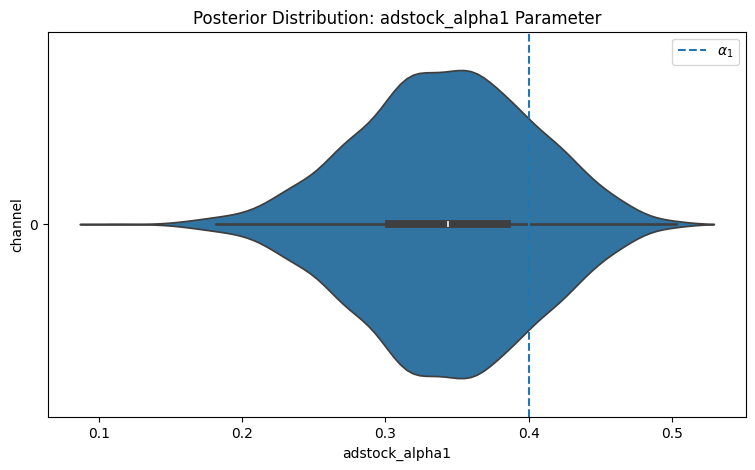
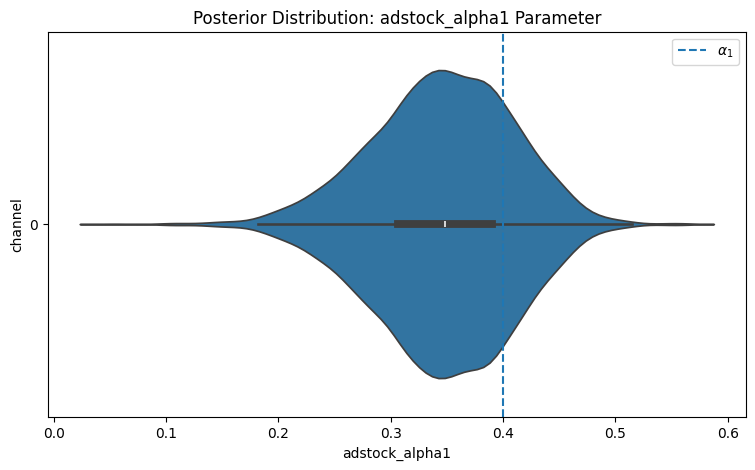
finalized the paper

diff --git a/final_paper.md b/final_paper.md
@@ -228,17 +228,21 @@ Here's the contribution parameters we want to recover:
 
 ![alt text](assets/img/contribution.png)
 
-TODO: add the contribution parameter for just search and display as well. 
+Here's the contribution, rolling up to just paid search and display ads:
+
+![alt text](assets/img/contribution_combined.png)
 
 Here's the ROAS we want to recover:
 
 ![alt text](/assets/img/roas.png)
 
-TODO: add the ROAS we want to recover for just search and display as well.
+Here's the ROAS, rolling up to just paid search and display ads:
+
+![alt text](/assets/img/roas_combined.png)
 
 ## Naive Model 
 
-First, we will build a naive MMM (replicating base model frameworks that we see in [PyMC Marketing](https://www.pymc-marketing.io/en/latest/)) and see how close it can get to the true parameters.
+First, we build a naive MMM (replicating base model frameworks that we see in [PyMC Marketing](https://www.pymc-marketing.io/en/latest/)) and see how close it can get to the true parameters.
 
 Here's an example of PyMC's base model framework:
 
@@ -269,7 +273,7 @@ $$
 
 ## Naive Model with Informed Priors
 
-Next, we will examine if adding an incrementality estimate as a prior into the naive model can help improve parameter recovery.
+Next, we add an incrementality estimate as a prior into the naive model to help improve parameter recovery.
 
 Let's assume we had our display ads vendor run an A/B test in their platform using ghost bids to make a clean test vs. control comparison. The results are encoded as this prior (adjusted for scaling of y):
 
@@ -279,7 +283,7 @@ $$
 
 ## Causal Model
 
-Lastly, we will build a more causally accurate MMM and see how close it can get to the true parameters. 
+Lastly, we build a more causally accurate MMM. 
 
 $$
 Sales_t \sim \mathcal{N}(\mu_t, \sigma)
@@ -302,11 +306,11 @@ $$
 $$
 
 $$
-\text{DisplayDirect}_t = (1 - \pi) \cdot \text{TotalDisplayAds}_t
+\text{DisplayDirect}_t = (1 - \pi) \cdot \text{DisplayAds}_t
 $$
 
 $$
-\text{SearchDirect}_t = \text{TotalPaidSearch}_t - \text{DisplayAndSearch}_t
+\text{SearchDirect}_t = \text{PaidSearch}_t
 $$
 
 
@@ -349,11 +353,14 @@ with pm.Model() as model:
     event_1 = pm.Data('event1', scaled_data["event_1"].values)
     event_2 = pm.Data('event2', scaled_data["event_2"].values)
     y = pm.Data('y', scaled_data['y'].values)
+    spend_display_direct = pm.Data("spend_display_direct", scaled_data['display_ads'].sum() * (1 - proportion_display_to_search))
+    spend_display_search = pm.Data("spend_display_search", scaled_data['display_ads'].sum() * proportion_display_to_search)
+    spend_search_direct = pm.Data("spend_search_direct", scaled_data['paid_search'].sum())
     # ----------------------
     # Priors
     # ----------------------
-    alpha = pm.Normal("alpha", 0.5, sigma=0.2)          # intercept
-    beta_t = pm.HalfNormal("beta_t", sigma=0.1)        # trend slope
+    alpha = pm.Normal("alpha", 0.4, sigma=2)          # intercept
+    beta_t = pm.Normal("beta_t", sigma=2)        # trend slope
     # Fourier terms
     beta_fourier = pm.Laplace("beta_fourier", mu=0.0, b=0.2, shape=fourier_terms.shape[1])
     # Control events
@@ -378,7 +385,7 @@ with pm.Model() as model:
     sigma_ds = pm.HalfNormal("sigma_ds", sigma=0.2)
     display_and_search = pm.Normal("display_and_search", mu=mu_ds, sigma=sigma_ds, shape=scaled_data['display_ads'].shape) # display and search is normally distributed with some random noise
     display_direct = display_transformed - display_and_search
-    search_direct = search_transformed - display_and_search
+    search_direct = search_transformed
 
     beta_display_direct = pm.HalfNormal("beta_display_direct", sigma=0.5)
     beta_display_and_search = pm.HalfNormal("beta_display_and_search", sigma=0.5)
@@ -388,20 +395,32 @@ with pm.Model() as model:
     sigma = pm.HalfNormal("sigma", sigma=2)
 
     # combine everything to make mu of y
-    display_direct_contribution = pm.Deterministic("display_direct_contribution", beta_display_direct * display_direct)
+    beta_display_direct_unscaled = pm.Deterministic(
+    "beta_display_direct_unscaled",
+    beta_display_direct * y_max
+    )
+    beta_display_and_search_unscaled = pm.Deterministic(
+    "beta_display_and_search_unscaled",
+    beta_display_and_search * y_max
+    )
+    beta_search_direct_unscaled = pm.Deterministic(
+    "beta_search_direct_unscaled",
+    beta_search_direct * y_max
+    )
+    display_direct_contribution_unscaled = pm.Deterministic("display_direct_contribution_unscaled",beta_display_direct_unscaled * display_direct)
+    display_and_search_contribution_unscaled = pm.Deterministic("display_and_search_contribution_unscaled", beta_display_and_search_unscaled * display_and_search)
+    search_direct_contribution_unscaled = pm.Deterministic("search_direct_contribution_unscaled", beta_search_direct_unscaled * search_direct)
+    display_direct_contribution = pm.Deterministic("display_direct_contribution",beta_display_direct * display_direct)
     display_and_search_contribution = pm.Deterministic("display_and_search_contribution", beta_display_and_search * display_and_search)
     search_direct_contribution = pm.Deterministic("search_direct_contribution", beta_search_direct * search_direct)
     fourier_contribution = pm.Deterministic("fourier_contribution", pm.math.dot(fourier_terms, beta_fourier))
     trend_contribution = pm.Deterministic("trend_contribution", beta_t * t)
     control1_contribution = pm.Deterministic("control1_contribution", gamma_control1 * event_1)
     control2_contribution = pm.Deterministic("control2_contribution", gamma_control2 * event_2)
-    spend_display_direct = pm.Data("spend_display_direct", df["display_ads"].sum() * (1 - proportion_display_to_search))
-    spend_display_search = pm.Data("spend_display_search", df["display_ads"].sum() * proportion_display_to_search)
-    spend_search_direct = pm.Data("spend_search_direct", df["paid_search"].sum())
 
-    contrib_display_direct = pm.Deterministic("contrib_display_direct", beta_display_direct * display_direct.sum())
-    contrib_display_search = pm.Deterministic("contrib_display_search", beta_display_and_search * display_and_search.sum())
-    contrib_search_direct = pm.Deterministic("contrib_search_direct", beta_search_direct * search_direct.sum())
+    contrib_display_direct = pm.Deterministic("contrib_display_direct", beta_display_direct_unscaled * display_direct.sum())
+    contrib_display_search = pm.Deterministic("contrib_display_search", beta_display_and_search_unscaled * display_and_search.sum())
+    contrib_search_direct = pm.Deterministic("contrib_search_direct", beta_search_direct_unscaled * search_direct.sum())
 
     roas_1 = pm.Deterministic("roas_display_direct", contrib_display_direct / spend_display_direct)
     roas_2 = pm.Deterministic("roas_display_search", contrib_display_search / spend_display_search)
@@ -426,9 +445,13 @@ with pm.Model() as model:
 
 # Results - Uninformed vs. Informed Priors in Naive Model
 
+Using informed priors helped the naive model to recover the parameters better. 
+
 ## Model Fit
 
-The informed prior didn't really affect the model fit. 
+The informed prior did not improve model fit.
+
+The black line is the actuals, and the dark blue area is the 50% HDI (credible interval), while the light blue is the 94% HDI. The $R^2$, or explained variance, of each model was the same. An $R^2$ of 86% means that the model accounted for 86% of the variance -  a decent result. 
 
 | Uninformed | Informed |
 |:--------:|:--------:|
@@ -436,7 +459,9 @@ The informed prior didn't really affect the model fit.
 
 ## Parameter Recovery
 
-The informed prior model recovered the adstock parameter better. 
+The informed prior model recovered the adstock and saturation parameters better. 
+
+The below charts show the posterior distribution of the parameters, with the dotted vertical lines displaying the actual true value. The black boxplot inside the area chart represents the credible intervals. The uninformed model's posteriors were both a bit too low, while the informed model was just right.
 
 | Uninformed - Display | Informed - Display |
 |:--------:|:--------:|
@@ -448,21 +473,35 @@ The informed prior model recovered the adstock parameter better.
 
 ## Contribution Recovery
 
-The informed prior model recovered the contributions better. 
+The naive model gave search too much contribution. Some of that contribution should have gone to display. The informed model lowered the contribution given to search, and its 94% HDIs capture the true contribution values.
 
 | Uninformed | Informed |
 |:--------:|:--------:|
 | ![Alt text 1](/assets/img/naive_contribution.png) | ![Alt text 2](assets/img/informed_contribution.png) |
 
+## ROAS Recovery
+
+Similar to contributions, the naive model gave too much credit to search. 
+
+The blue hill is the posterior distribution, with the black rectangle representing the 94% HDI, and the orange line representing the true value. The uninformed model gave search a mean of 2.8. The true ROAS is actually 1.54865, which falls in the bottom 0.3% of this posterior distribution; thus, the uninformed model greatly overestimated search. Likewise, although the informed model was closer to the real display ROAS, it also overestimated search. 
+
+| Uninformed | Informed |
+|:--------:|:--------:|
+| ![Alt text 1](/assets/img/naive_roas.png) | ![Alt text 2](assets/img/informed_roas.png) |
+
 ## Summary - Uninformed vs. Informed Priors
 
-Adding an informed prior can help mitigate these funnel effect issues!
+In the informed model, achieving the desired final ROAS for display was challenging because the $\beta$, adstock, and saturation parameters all interact to determine a channel's contribution. To steer the model toward a higher display ROAS, we found that simply increasing the $\beta$ prior was insufficient; we had to increase the $\beta$ prior while simultaneously adjusting the saturation prior to ensure the curve remained steep and efficient across the observed spend levels. This initial prior adjustment only significantly impacted the display ROAS, adstock, and saturation parameters. 
+
+Addressing potential funnel bias—where lower-funnel channels like search are often over-credited—would require more nuanced and potentially joint priors that take some contribution from lower funnel and credit it to upper funnel. This could be an avenue for future research. 
 
 # Results - Naive vs. Causal
 
+Next, we compare our naive model vs. our causally accurate model.
+
 ## Model Fit
 
-Both models fit the data rather well.
+Both models fit the data rather well, with $R^2$ of 86% and 89% respectively.
 
 | Naive MMM | Causal MMM |
 |:--------:|:--------:|
@@ -482,29 +521,37 @@ Both models struggled to recover adstock and saturation parameters. They had sim
 
 ## Contribution Recovery
 
-The naive model gave search too much credit. Some of that credit should have gone to display. Meanwhile, the causal MMM recovered the right direct search and display+search contributions albeit with very wide contribution intervals. 
+The naive model recovered the contribution better than the causal model, which has very wide intervals and incorrect display direct and search direct parameters.
 
 | Naive MMM | Causal MMM |
 |:--------:|:--------:|
 | ![Alt text 1](/assets/img/naive_contribution.png) | ![Alt text 2](assets/img/causal_contribution.png) |
 
+## ROAS Recovery
+
+The uncertainty in the causal model contribution intervals are reflected in the ROAS as well, especially for display+search posterior ranging from 0 to 10 ROAS. 
+
+| Uninformed | Informed |
+|:--------:|:--------:|
+| ![Alt text 1](/assets/img/naive_roas.png) | ![Alt text 2](assets/img/causal_roas.png) |
+
 ## Summary - Naive vs. Causal
 
-The Causal MMM framework was too complex, leading to very wide parameter uncertainty. Maybe there's a smarter way to set up the model. This could be an avenue for future research.
-
-The Naive MMM framework was too simple, giving too much credit to paid search. 
-
-Let's now examine the results from using better priors for our Naive model.
+The Naive MMM framework was too simple, assigning too much credit to paid search, while the Causal MMM framework was too complex, leading to very wide parameter uncertainty. There must be a smarter, yet simpler way to set up the model. This could also be an avenue for future research.
 
 # Conclusion
 
-From our analysis, we learned that naive MMMs will overcredit lower funnel channels, and informed priors can help mitigate funnel effect issues. 
+This study set out to demonstrate that while open-source MMMs democratize analysis, their inherent simplicity and abstraction risk encouraging a "plug-and-play" mentality that ignores causal dependencies between marketing channels, such as the downstream effect of display on search.
 
-Our causal MMM did not perform well. Future research could work on improving this model; however, solutions for these causal issues are already being implemented in industry and academia. In industry, Sellforte and Recast sell a causal MMM solution. For example, Recast's model has been developed based on this causal dag:
+Our findings confirmed this risk for our particular data generation framework: we demonstrated that naive MMMs overcredited lower-funnel channels, leading to biased parameter estimates. Critically, we showed that carefully constructed, informed priors can help mitigate these biases (future research will need to be conducted on much more complex data generation frameworks that better represent real world marketing environments).
+
+Conversely, our exploration into causally accurate, yet complex models confirmed the second part of our thesis: simply integrating the full causal structure does not guarantee superior performance and can, in fact, introduce new sources of bias or estimation instability.
+
+The road to a truly accurate MMM lies in balancing causal fidelity with model tractability. Solutions for these causal issues are already being implemented in industry and academia. In industry, Sellforte and Recast sell a causal MMM solution. For example, Recast's model has been developed based on this causal dag:
 
 ![recast](/assets/img/recast_causal_dag.png)
 
-In academia, Chen, Chan, Koehler, Perry, Wang, Sun, and Jin (2018) correct for paid search bias in media mix modeling by adding a demand proxy control variable. Gong, Yao, Zhang, Chen, Li, Su, and Bi (2024) propose a novel MMM that estimates the causal structure automatically. Additionally, there are existing modeling frameworks such as Structural Equation Modeling, multi-stage approaches, and more advanced Bayesian models that express the causal model as a joint probability distribution. The future is bright for causally accurate MMMs. 
+In academia, Chen, Chan, Koehler, Perry, Wang, Sun, and Jin (2018) correct for paid search bias in media mix modeling by adding a demand proxy control variable. Gong, Yao, Zhang, Chen, Li, Su, and Bi (2024) propose a novel MMM that estimates the causal structure automatically. Additionally, there are existing modeling frameworks such as Structural Equation Modeling, multi-stage approaches, and more advanced Bayesian models that express the causal model as a joint probability distribution. Despite the many challenges of causally accurate MMMs, the research in academia and in industry show that the future of MMM is bright.
 
 # References
 
@@ -519,3 +566,8 @@ modeling with carryover and shape effects. research.google.com.
 Irwin.
 - Sun, Y., Wang, Y., Jin, Y., Chan, D., & Koehler, J. (2016–2017). Geo-level Bayesian Hierarchical Media Mix Modeling. Google Research. (Hierarchical pooling across geographies; informative priors.) Google Services
 - Wood, C. (2025, October 10). Nearly half of US marketers plan to invest in MMM over the next year. eMarketer. Retrieved from https://www.emarketer.com/content/nearly-half-of-us-marketers-plan-invest-mmm-over-next-year
+
+# Code
+
+- https://github.com/Jonathan-Chia/mmm-research/blob/main/bayesian_mmm_causal_issues.ipynb
+- collab notebook: https://colab.research.google.com/drive/1kZuOqCIhHcSRsWBgVpA48mvsB633QXuq?usp=sharing
